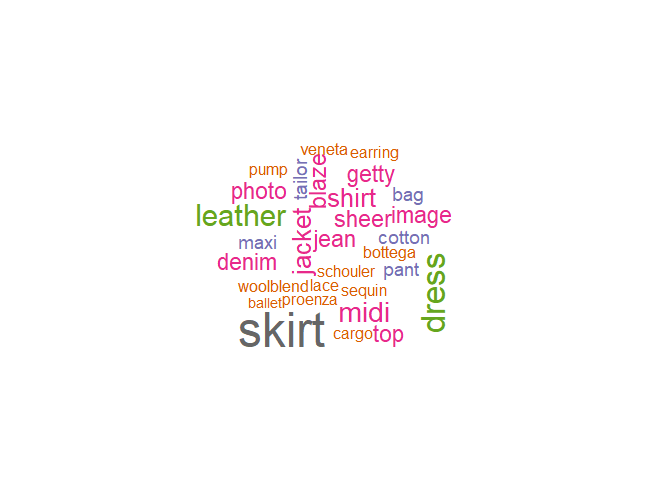
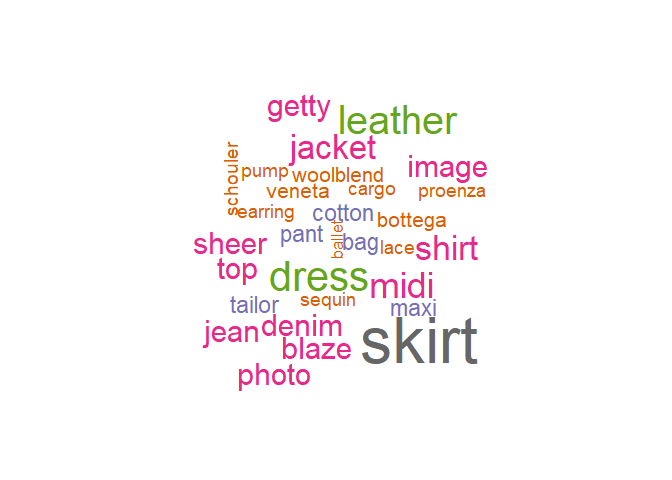
edit

Changed region(s): [[0.2812, 0.1875, 0.75, 0.8125]]

diff --git a/Top_Fashion_Trends_2023.md b/Top_Fashion_Trends_2023.md
@@ -303,7 +303,7 @@ article:
 
     library(RColorBrewer)
 
-    wordcloud(names(top_30_words), top_30_words, colors = brewer.pal(8, "Dark2"), scale = c(3, 0.5))
+    wordcloud(names(top_30_words), top_30_words, colors = brewer.pal(8, "Dark2"))
 
 ![](Top_Fashion_Trends_2023_files/figure-markdown_strict/unnamed-chunk-16-1.png)
 
